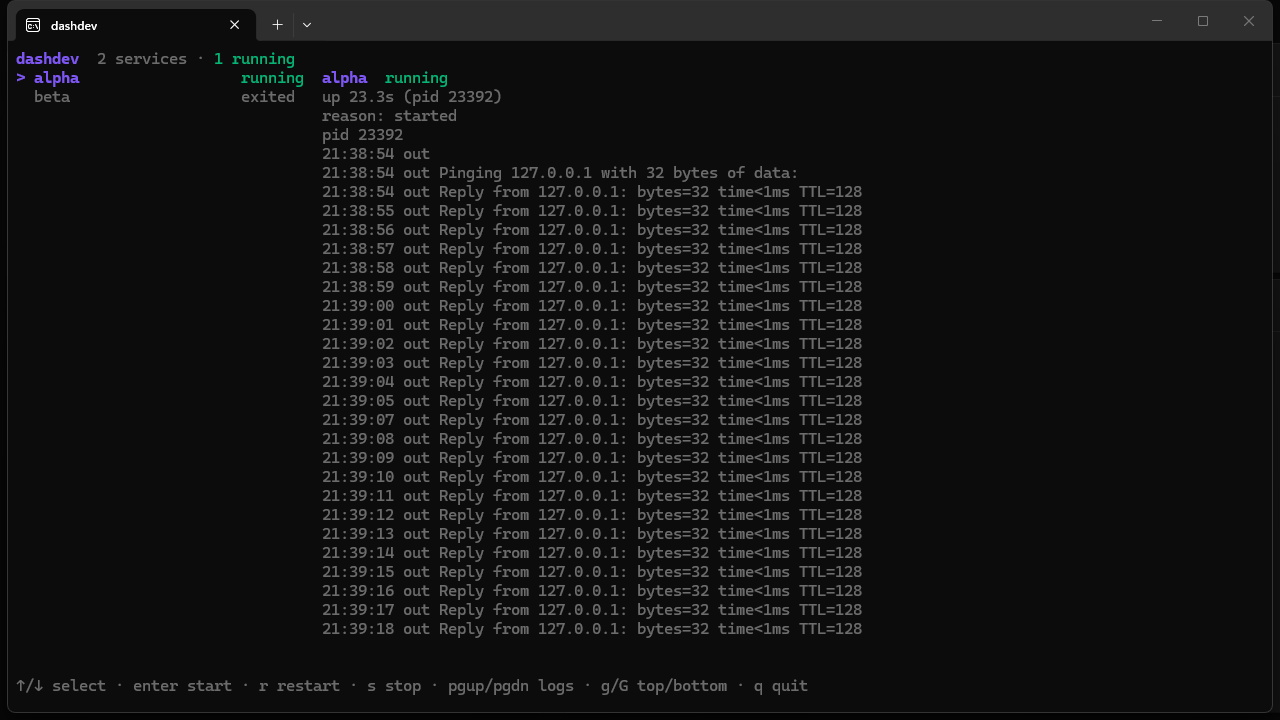
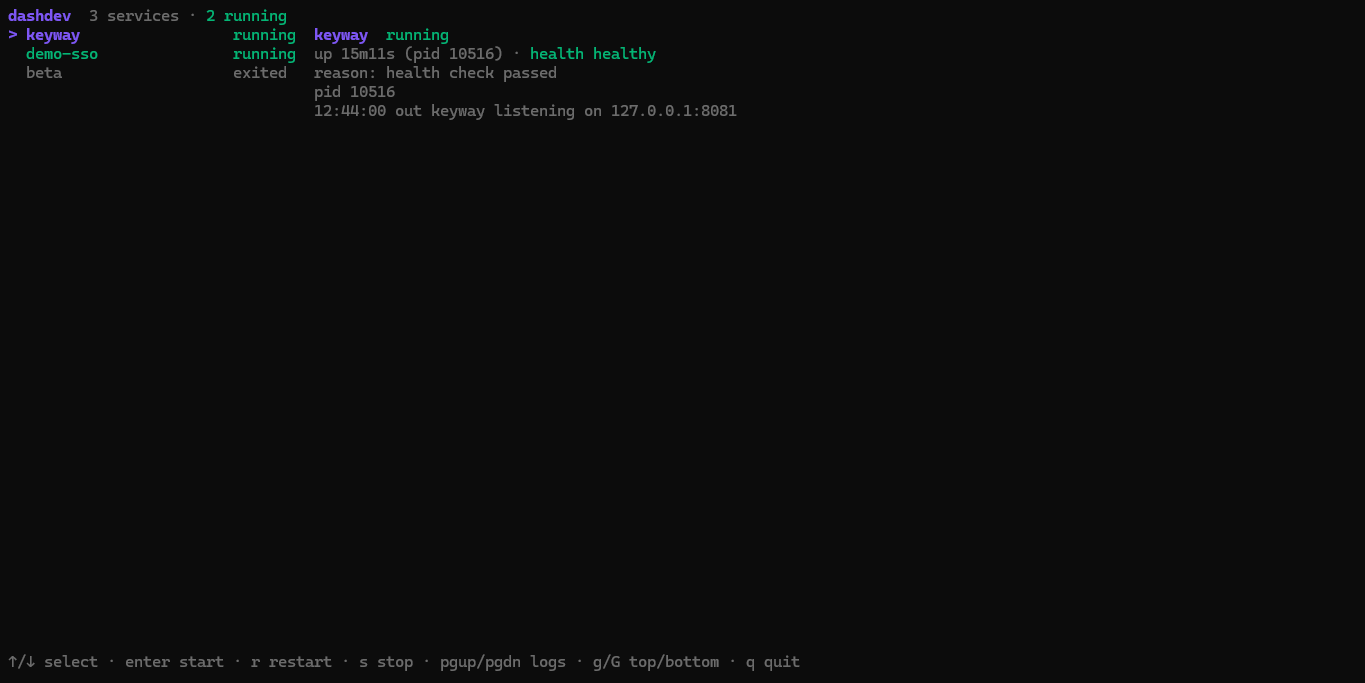
docs: swap in the keyway dashboard screenshot
Real run: keyway and demo-sso running (keyway healthy), beta exited
cleanly. Caption updated to describe what is actually shown.

Changed region(s): [[0.0, 0.0, 1.0, 0.8917], [0.0, 0.9224, 0.625, 0.9839]]

diff --git a/README.md b/README.md
@@ -9,9 +9,9 @@ started stops too — no orphans, no half-dead processes.
 
 The process manager is the product; the dashboard is just one way to watch it.
 
-![dashdev dashboard — a service list with db stopped, api running, and worker
-crashed; the right-hand detail pane, the log viewport, and the footer of bound
-keys are all visible.](docs/dashboard.png)
+![dashdev dashboard — a service list with keyway and demo-sso running and beta
+exited; the selected service's health, uptime and log output, and the footer
+of bound keys are all visible.](docs/dashboard.png)
 
 ## Build and run
 
